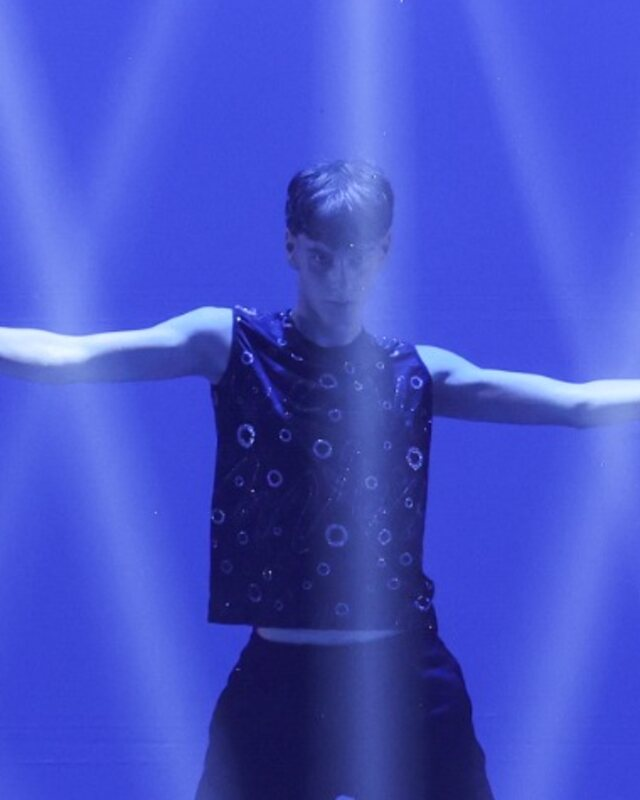
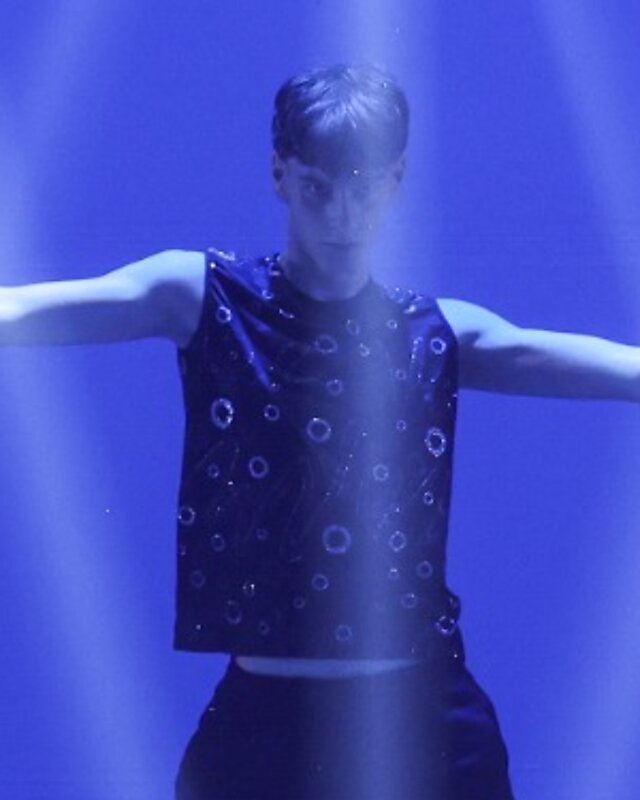
Anteprima: Gianni Romano ingrandito
Claude-Session: https://claude.ai/code/session_011bkBveJ9rDvajb5T843bsu

diff --git a/anteprima/index.html b/anteprima/index.html
@@ -258,7 +258,7 @@ footer .partner{display:flex;align-items:center;gap:14px;margin-top:22px;flex-wr
  <div class="saggio dir"><div class="img" id="foto-pagano" style="background:#8A3A36 url(doc-pagano.jpg) 45% 50%/cover no-repeat;min-height:620px;font-size:0" role="img" aria-label="Roberta Pagano, direttrice artistica"></div><div class="txt"><div class="kick">Direzione artistica</div><h2>Roberta Pagano</h2><p><b style="color:var(--ink)">Insegna:</b> Pre-danza e propedeutica · Classico · Modern · Heels</p></div></div>
  <div class="grid docenti"><article><div class="img">Foto docente</div><div class="txt"><h3>Giovanni Lampitelli</h3><small>Docente di Contemporaneo</small></div></article><article><div class="img">Foto docente</div><div class="txt"><h3>Francesca Sansone</h3><small>Docente di Hip Hop</small></div></article><article><div class="img" style="background:#C9C6D6 url(doc-ferrara.jpg) center 15%/cover no-repeat;font-size:0" role="img" aria-label="Gabriella Ferrara, docente di Pilates"></div><div class="txt"><h3>Gabriella Ferrara</h3><small>Docente di Pilates</small></div></article><article><div class="img" style="background:#050608 url(doc-pesacane.jpg) center 20%/cover no-repeat;font-size:0" role="img" aria-label="Marco Pesacane, docente di Dizione e presentatore"></div><div class="txt"><h3>Marco Pesacane</h3><small>Docente di Dizione · Presentatore</small></div></article></div>
  <h3 class="subhead">Assistenti ai corsi</h3>
- <div class="grid docenti assist"><article><div class="img" style="background:#2A1A10 url(doc-iervolino.jpg) center 20%/cover no-repeat;font-size:0" role="img" aria-label="Cecilia Iervolino, assistente ai corsi"></div><div class="txt"><div class="ek">Assistente ai corsi</div><h3>Cecilia Iervolino</h3></div></article><article><div class="img" style="background:#4F5FEF url(doc-romano.jpg) center 30%/cover no-repeat;font-size:0" role="img" aria-label="Gianni Romano, assistente ai corsi"></div><div class="txt"><div class="ek">Assistente ai corsi</div><h3>Gianni Romano</h3></div></article></div>
+ <div class="grid docenti assist"><article><div class="img" style="background:#2A1A10 url(doc-iervolino.jpg) center 20%/cover no-repeat;font-size:0" role="img" aria-label="Cecilia Iervolino, assistente ai corsi"></div><div class="txt"><div class="ek">Assistente ai corsi</div><h3>Cecilia Iervolino</h3></div></article><article><div class="img" style="background:#4F5FEF url(doc-romano.jpg) center top/cover no-repeat;font-size:0" role="img" aria-label="Gianni Romano, assistente ai corsi"></div><div class="txt"><div class="ek">Assistente ai corsi</div><h3>Gianni Romano</h3></div></article></div>
 </div></section>
 
 <section id="gallery" class="alt"><div class="wrap">
